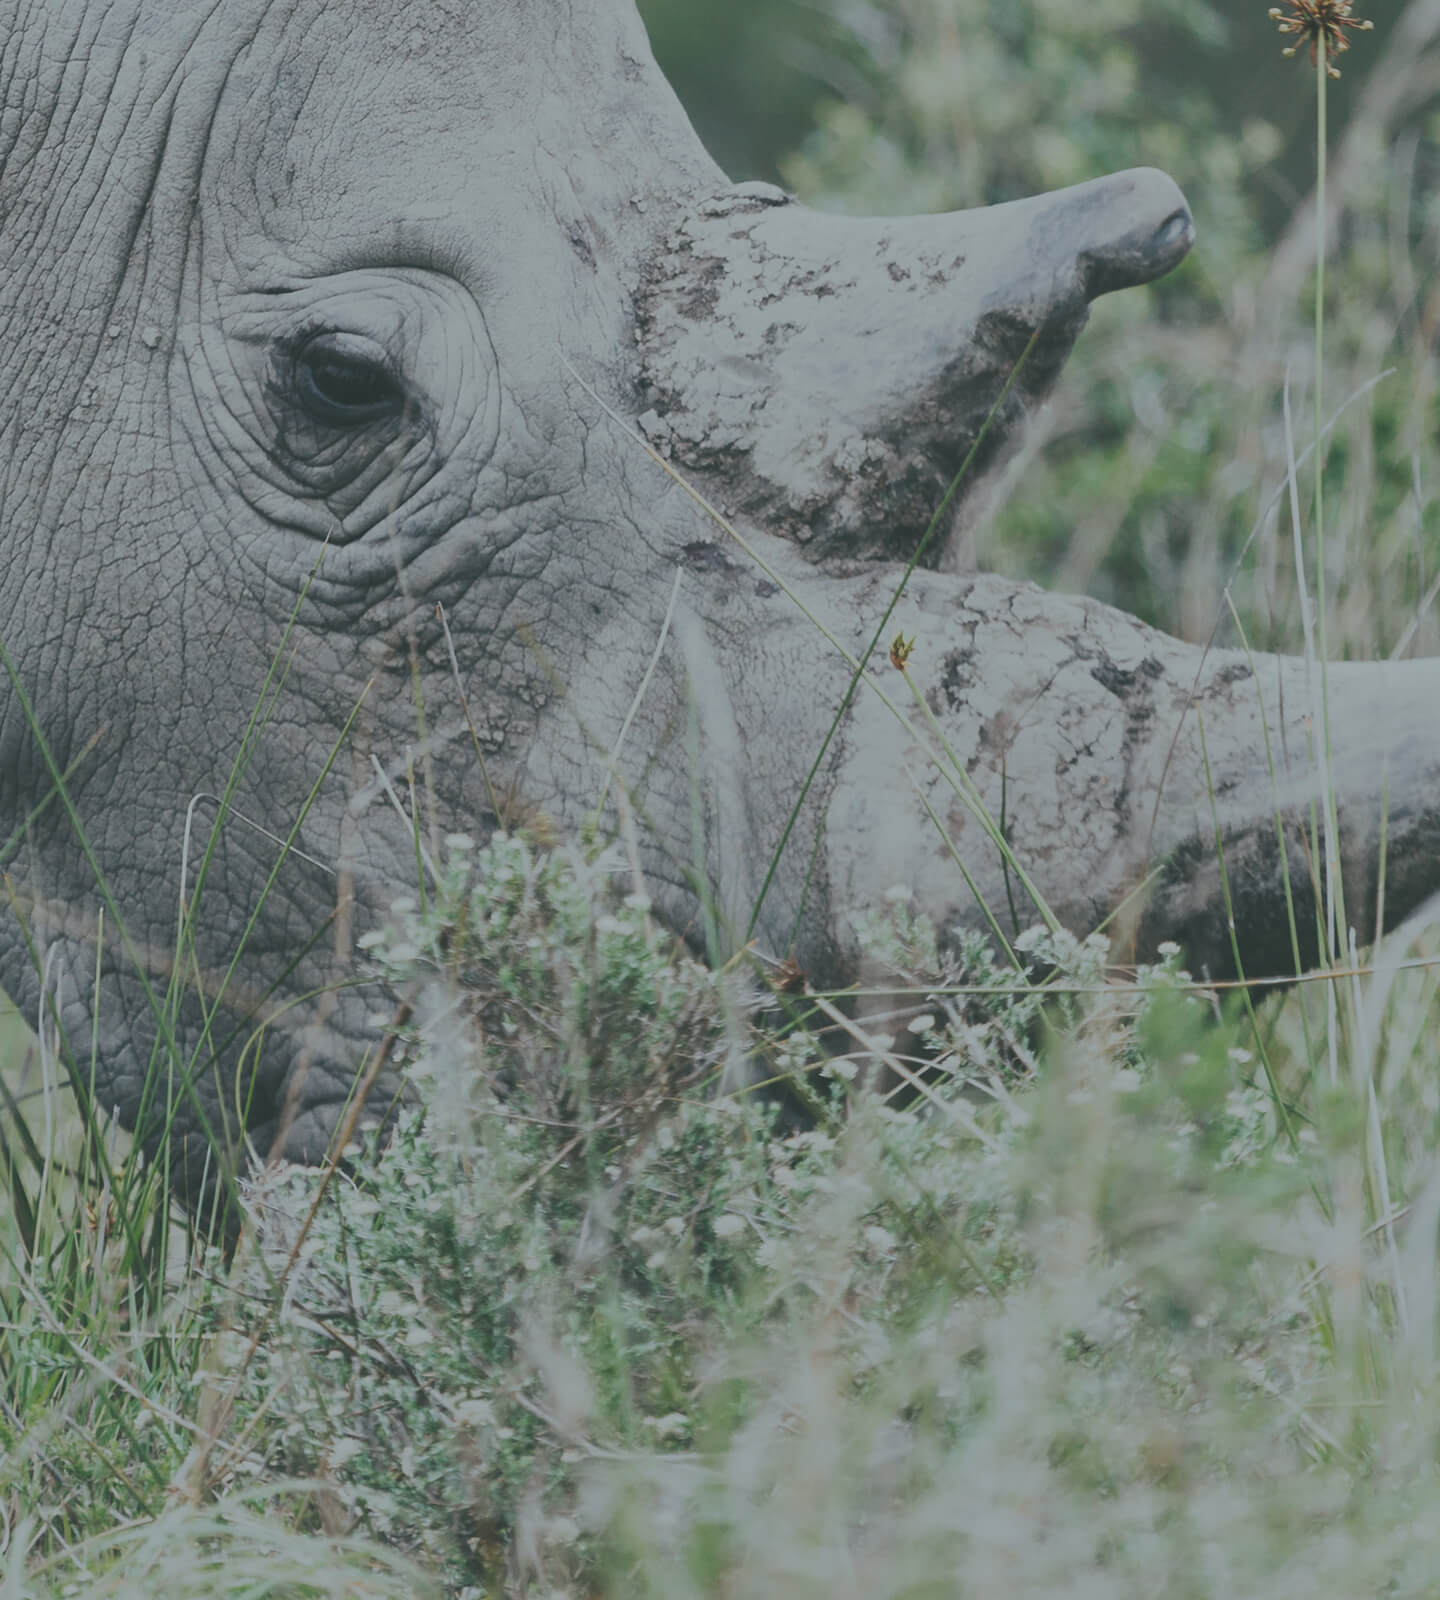
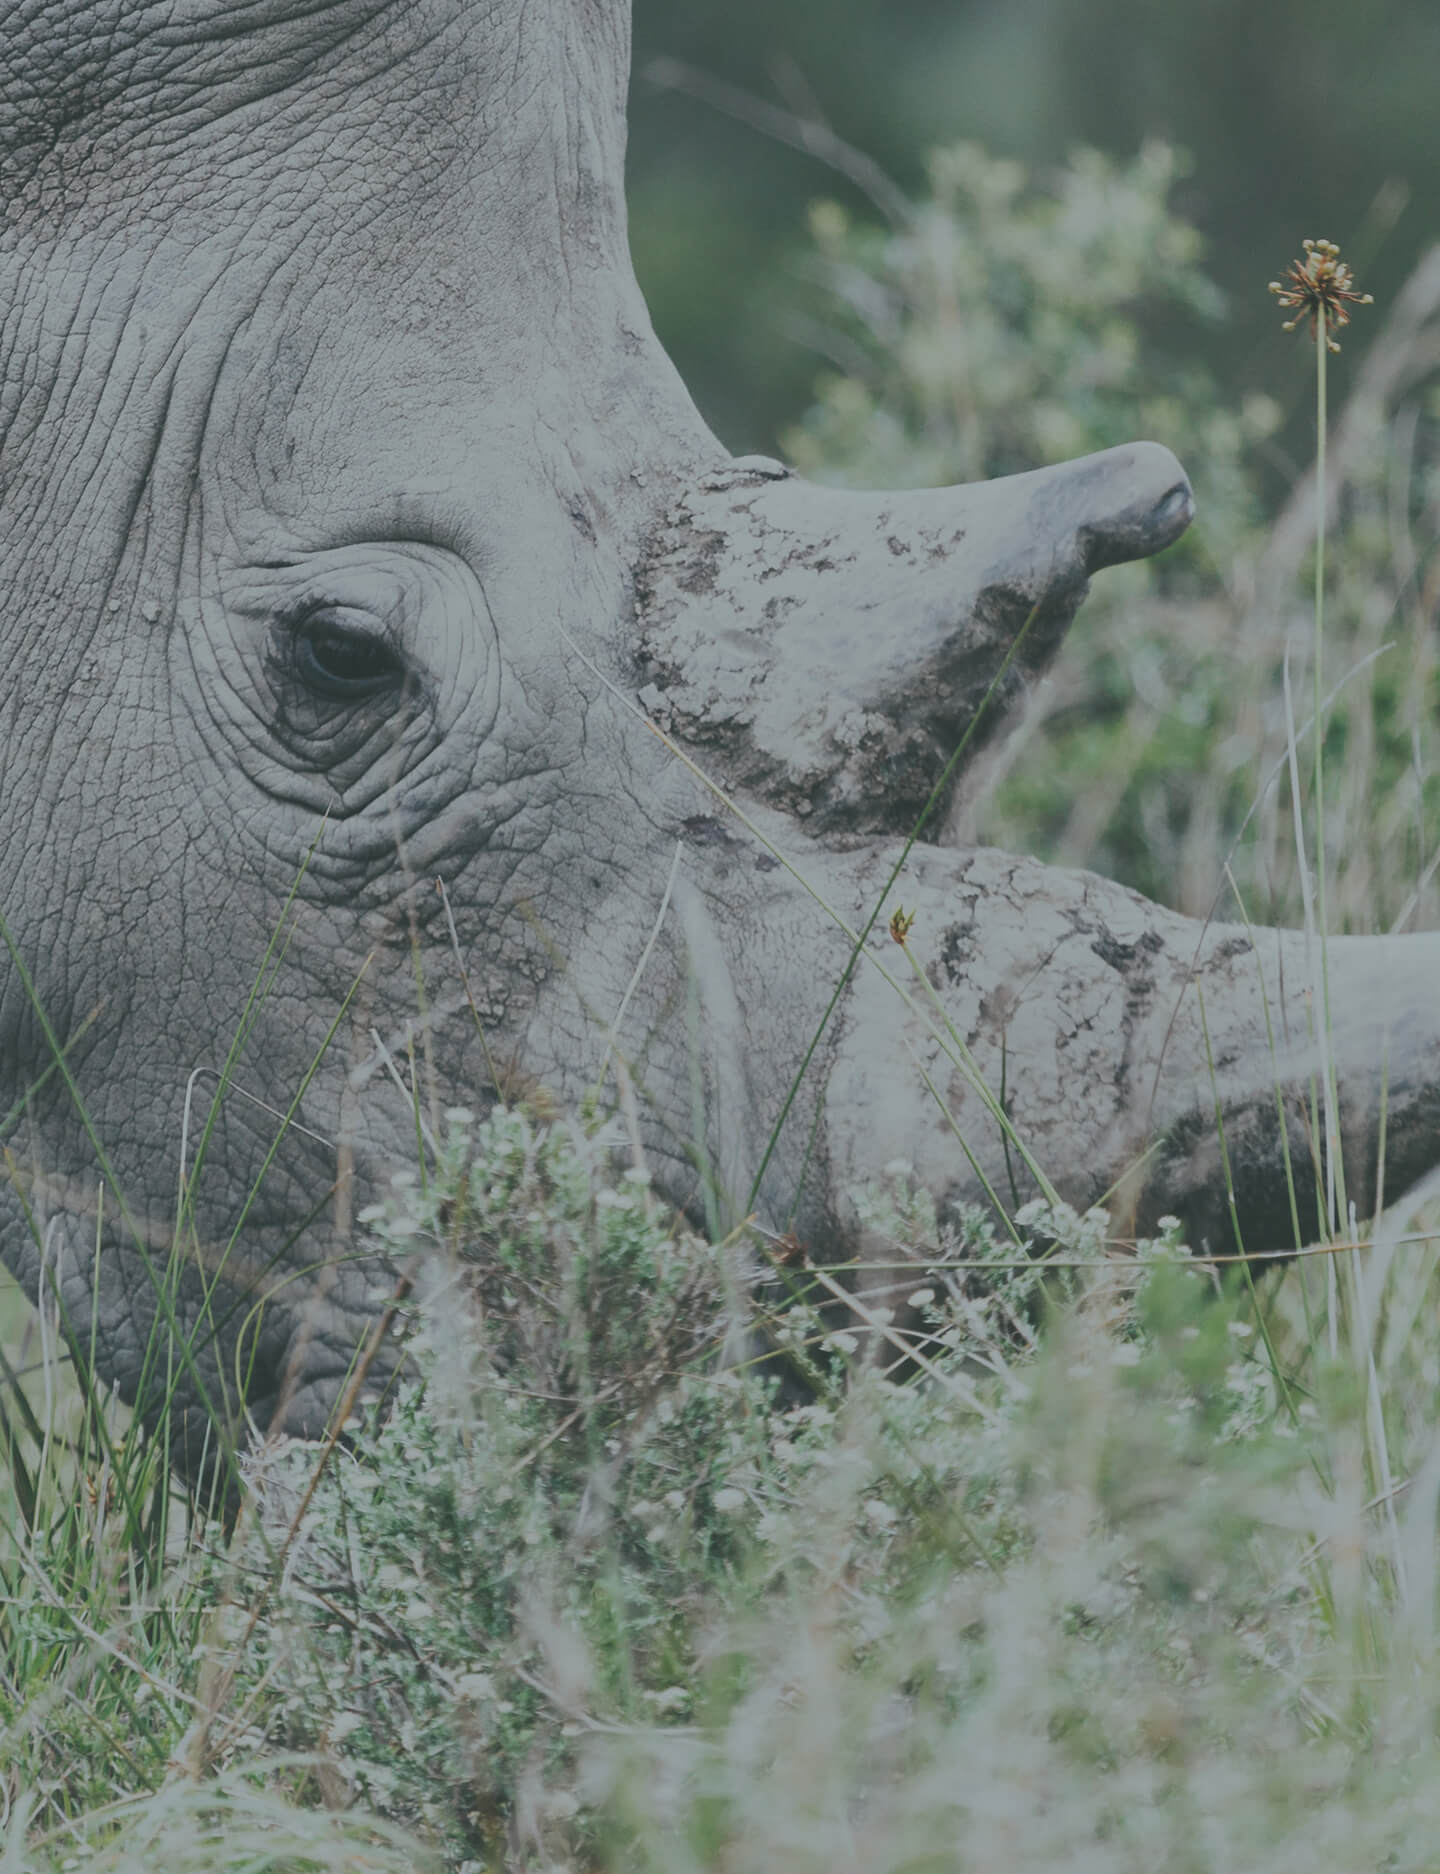
section2 styling

diff --git a/deploy/index.html b/deploy/index.html
@@ -7,7 +7,7 @@
     <meta http-equiv="X-UA-Compatible" content="ie=edge">
     <link rel="stylesheet" href="css/styles.css">
     <!-- gg fonts -->
-
+    <link href="https://fonts.googleapis.com/css2?family=Playfair+Display:ital,wght@0,700;0,800;1,600;1,700&family=Raleway:ital,wght@0,200;0,300;0,400;0,500;0,600;0,700;0,800;1,300;1,600;1,700&display=swap" rel="stylesheet">
     <!-- font awesome -->
     <script src="https://kit.fontawesome.com/bb64da5fe1.js" crossorigin="anonymous"></script>
     <title>Web2 Final</title>
@@ -22,16 +22,16 @@
             <div id="section-2-container">
         
                 <div id="section-2-content1">
-                    <h1>about <br>
-                        /</h1>
+                    <h1 class="content-spacing">about <br>
+                        <span>/</span></h1>
                 
                     <div id="section-2-rectangle1"></div>
                     <article id="section-2-article1">
-                        <h2>Project Rhino was launched on World Rhino Day, </h2>
+                        <h2 class="content-spacing">Project Rhino was launched on World Rhino Day, </h2>
                         <h3>22/ <br>
                             09/ <br>
                             2011. </h3>
-                        <p>It is a province-wide, rhino-focussed association that brings together a provincial government conservation body, private and community-owned reserves, rhino owners, leading conservation NGOs and anti-poaching security specialists.</p>
+                        <p class="content-spacing">It is a province-wide, rhino-focussed association that brings together a provincial government conservation body, private and community-owned reserves, rhino owners, leading conservation NGOs and anti-poaching security specialists.</p>
                     </article>
                     <div id="section-2-rectangle2" class="show-for-md"></div>
                 </div>
@@ -51,8 +51,8 @@
                 <div id="section-3-container">
             
                     <div id="section-3-content1">
-                        <h1>mission <br>
-                            /</h1>
+                        <h1 class="content-spacing">mission <br>
+                            <span>/</span></h1>
                     
                         <section id="section-3-intro">
                             <h2>LET OUR VOICES BE HEARD</h2>
@@ -118,8 +118,8 @@
     <section id="section-4">
                     <div id="section-4-container">
                         <div id="bg2">
-                            <h1>gallery <br>
-                                /</h1>
+                            <h1 class="content-spacing">gallery <br>
+                                <span>/</span></h1>
                         
                             <h3 id="date1">20-24/ <br>
                                 09/ <br>
@@ -156,8 +156,8 @@
     <section id="section-5">
                         <div id="section-5-container">
                             <div id="section-5-content1">
-                                <h1>sponsors <br>
-                                    /</h1>
+                                <h1 class="content-spacing">sponsors <br>
+                                    <span>/</span></h1>
                             </div>
                             
                             <section>
@@ -184,9 +184,8 @@
     <section id="section-6">
                             <div id="section-6-container">
                                 <div id="section-6-content1">
-                                    <h1>more information <br>
-                                        /
-                                    </h1>
+                                    <h1 class="content-spacing">more information <br>
+                                        <span>/</span></h1>
                                 </div>
                                 
                                 <section>
@@ -265,6 +264,7 @@
                                         <div>
                                             <section id="logo-container">
                                                 <h1><img src="img/header/logo.svg" alt="logo"></h1>
+                                                <h1>ProjectRhino</h1>
                                             </section>
                                         
                                             <section id="burger-container">
@@ -273,9 +273,11 @@
                                     
                                             <nav id="nav-container" data-nav="main-navigation">
                                                 <ul>
-                                                    <li><a href="#section-2">About</a></li>
-                                                    <li><a href="#section-3">Portfolio</a></li>
-                                                    <li><a href="#section-5">Contact</a></li>
+                                                    <li><a href="#section-2">ABOUT</a></li>
+                                                    <li><a href="#section-3">MISSION</a></li>
+                                                    <li><a href="#section-4">GALLERY</a></li>
+                                                    <li><a href="#section-5">SPONSORS</a></li>
+                                                    <li><a href="#section-6">INFORMATION</a></li>
                                                 </ul>
                                             </nav>
                                         </div>

diff --git a/deploy/css/styles.css b/deploy/css/styles.css
@@ -378,12 +378,27 @@ ul li {
   }
 }
 
+.content-spacing {
+  padding-top: 38px;
+}
+
 /* =============
     Typography
 ============= */
 h1, h2, h3, h4, h5, h6, p {
   margin: 0;
   padding: 0;
+}
+
+h1 {
+  font-family: "Raleway", sans-serif;
+  font-size: 1.375rem;
+  line-height: 1.5625rem;
+  font-weight: 700;
+  color: #F9F6EF;
+}
+h1 > span {
+  font-weight: 200;
 }
 
 /* =============
@@ -457,7 +472,7 @@ textarea {
     Header
 ============= */
 header {
-  background-color: pink;
+  background-color: rgba(62, 57, 28, 0.5);
   left: 0;
   position: fixed;
   top: 0;
@@ -476,7 +491,10 @@ header > div {
 }
 header > div #logo-container {
   grid-area: logo;
-  padding: 5px 20px;
+  display: flex;
+  width: 90%;
+  justify-content: space-evenly;
+  align-items: center;
 }
 header > div #burger-container {
   align-items: center;
@@ -494,14 +512,14 @@ header > div #burger-container i {
   cursor: pointer;
 }
 header > div #nav-container {
-  background-color: #fff;
+  background-color: rgba(62, 57, 28, 0.5);
   display: none;
   grid-area: nav;
   padding: 20px;
 }
 @media (min-width: 992px) {
   header > div #nav-container {
-    background-color: pink;
+    background-color: rgba(62, 57, 28, 0.5);
     display: block !important;
   }
 }
@@ -518,6 +536,17 @@ header > div #nav-container {
   background-position: -120px 0;
   background-size: cover;
   height: 400px;
+}
+@media (min-width: 768px) {
+  #section-1 {
+    height: 450px;
+    background-position: 0 0;
+  }
+}
+@media (min-width: 992px) {
+  #section-1 {
+    height: 700px;
+  }
 }
 
 /* =============
@@ -553,15 +582,26 @@ header > div #nav-container {
 #section-2 #section-2-container #section-2-content1 {
   grid-area: c1;
   background-image: url("../img/section2/hero2.jpg");
-  background-position: center;
+  background-position: top center;
+  background-position: 0 20px;
   background-size: cover;
   height: 510px;
   display: grid;
   grid-template-columns: 15px auto 15px;
-  grid-template-areas: ". h1 ." ". a1 .";
+  grid-template-areas: ". h1 ." ". r1 ." ". a1 .";
 }
 #section-2 #section-2-container #section-2-content1 h1 {
   grid-area: h1;
+  padding-left: 25px;
+  padding-bottom: 30px;
+  font-style: italic;
+}
+#section-2 #section-2-container #section-2-content1 #section-2-rectangle1 {
+  height: 100px;
+  grid-area: r1;
+  margin: 0 25px;
+  border: solid white 1px;
+  background-color: rgba(255, 255, 255, 0.18);
 }
 #section-2 #section-2-container #section-2-content1 #section-2-article1 {
   grid-area: a1;

diff --git a/dev/scss/sections/_section-2.scss b/dev/scss/sections/_section-2.scss
@@ -16,6 +16,7 @@
             background-position: center;
             background-size: cover;
         }
+        
         #section-2-img1{
             grid-area: i1;
             background-image: url('../img/section2/about-1.jpg');
@@ -40,7 +41,8 @@
             grid-area: c1;
 
             background-image: url('../img/section2/hero2.jpg');
-            background-position: center;
+            background-position: top center;
+            background-position: 0 20px;
             background-size: cover;
             height: 510px;
         
@@ -48,9 +50,21 @@
             grid-template-columns: 15px auto 15px;
             grid-template-areas:
             ". h1 ."
+            ". r1 ."
             ". a1 .";
             h1{
                 grid-area: h1;
+                padding-left: 25px;
+                padding-bottom: 30px;
+                font-style: italic;
+                
+            }
+            #section-2-rectangle1{
+                height: 100px;
+                grid-area: r1;
+                margin: 0 25px;
+                border: solid white 1px;
+                background-color: rgba(255, 255, 255, .18);
             }
             #section-2-article1{
                 grid-area: a1;

diff --git a/dev/scss/layout/_header.scss b/dev/scss/layout/_header.scss
@@ -2,7 +2,7 @@
     Header
 ============= */
 header {
-    background-color: pink;
+    background-color: rgba(62, 57, 28, .5);
     left: 0;
     position: fixed;
     top: 0;
@@ -21,7 +21,10 @@ header {
 
         #logo-container {
             grid-area: logo;
-            padding: 5px 20px;
+            display: flex;
+            width: 90%;
+            justify-content: space-evenly;
+            align-items: center;
         }
 
         #burger-container {
@@ -41,13 +44,13 @@ header {
         }
 
         #nav-container {
-            background-color: $white;
+            background-color:rgba(62, 57, 28, .5);
             display: none;
             grid-area: nav;
             padding: 20px;
 
             @include lg {
-                background-color: pink;
+                background-color: rgba(62, 57, 28, .5);
                 display: block !important;
             }
         }

diff --git a/dev/scss/base/_typography.scss b/dev/scss/base/_typography.scss
@@ -5,3 +5,15 @@ h1,h2,h3,h4,h5,h6,p{
     margin: 0;
     padding: 0;
 }
+h1{
+    font-family: 'Raleway', sans-serif;
+    font-size: rem-calc(22);
+    line-height: rem-calc(25);
+    font-weight: 700;
+    color: $cream;
+    >span{
+        font-weight: 200;
+    }
+}
+// font-family: 'Playfair Display', serif;
+// font-family: 'Raleway', sans-serif;

diff --git a/dev/scss/sections/_section-1.scss b/dev/scss/sections/_section-1.scss
@@ -7,5 +7,11 @@
     background-position: -120px 0;
     background-size: cover;
     height: 400px;
-
+    @include md{
+        height: 450px;
+        background-position: 0 0;
+    }
+    @include lg{
+        height: 700px;
+    }
 }

diff --git a/dev/scss/helpers/_variables.scss b/dev/scss/helpers/_variables.scss
@@ -17,4 +17,6 @@ $screen-xl-min: 1200px;
 
 // Colors
 $white: #fff;
+$cream: #F9F6EF;
 $black: #000;
+$darkbrown: #3E391C;

diff --git a/dev/scss/base/_base.scss b/dev/scss/base/_base.scss
@@ -22,3 +22,6 @@ ul{
         display: block;
     }
 }
+.content-spacing{
+    padding-top: 38px;
+}
